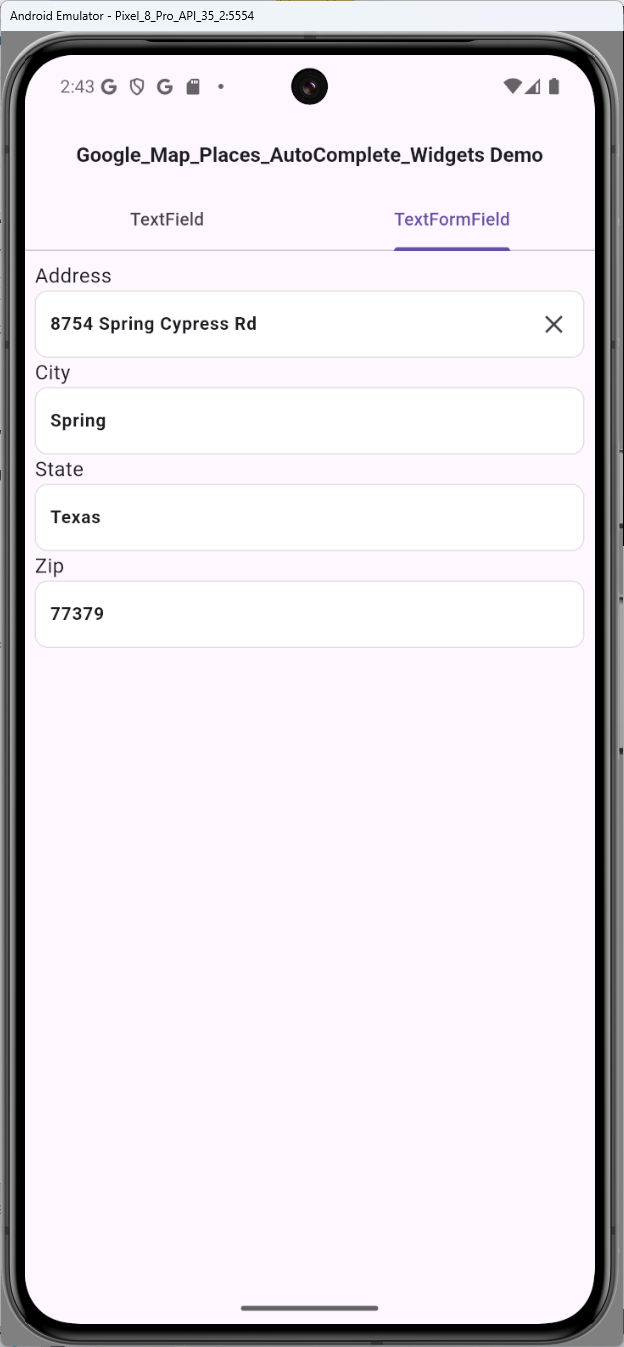
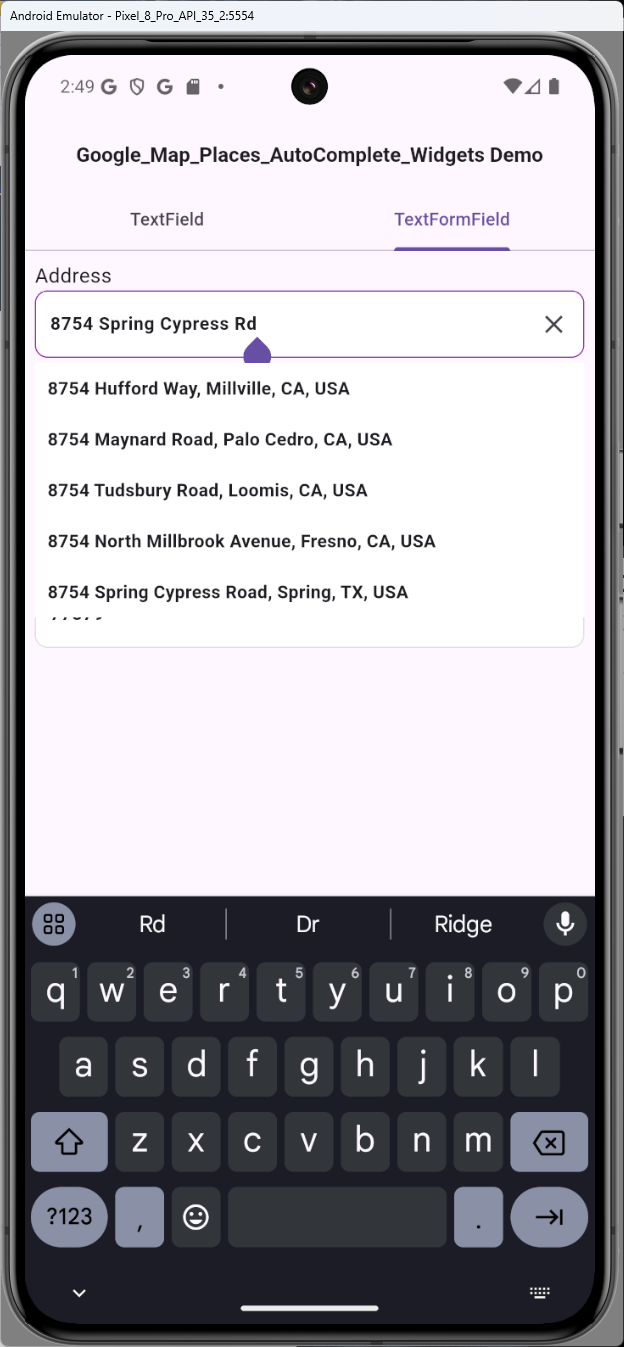
update screenshot image

diff --git a/CHANGELOG.md b/CHANGELOG.md
@@ -1,5 +1,9 @@
 # google_maps_places_autocomplete_widgets package
 
+## 1.3.2
+
+* Correct screenshot image
+
 ## 1.3.1
 
 * Added `screenshots:` section to `pubspec.yaml`
